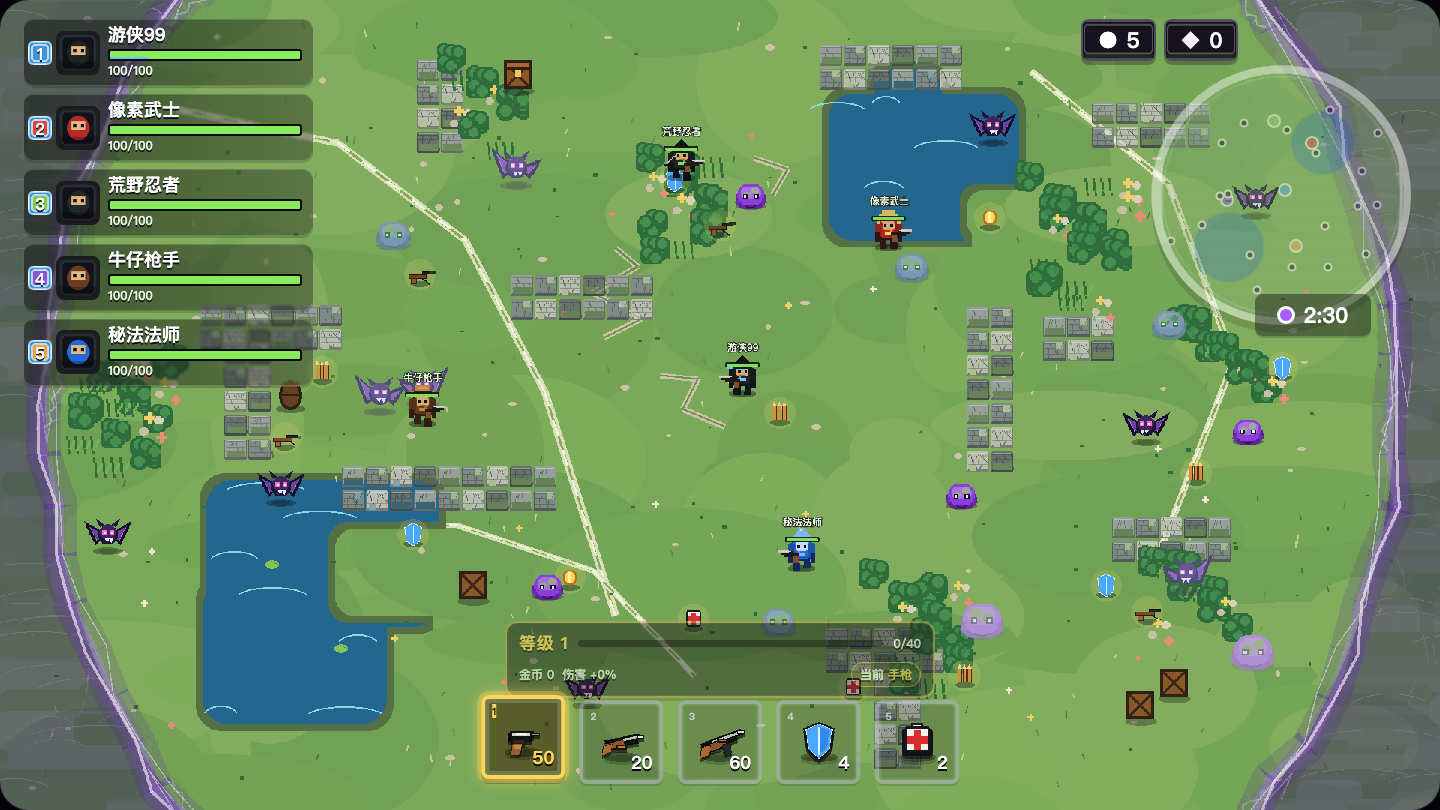
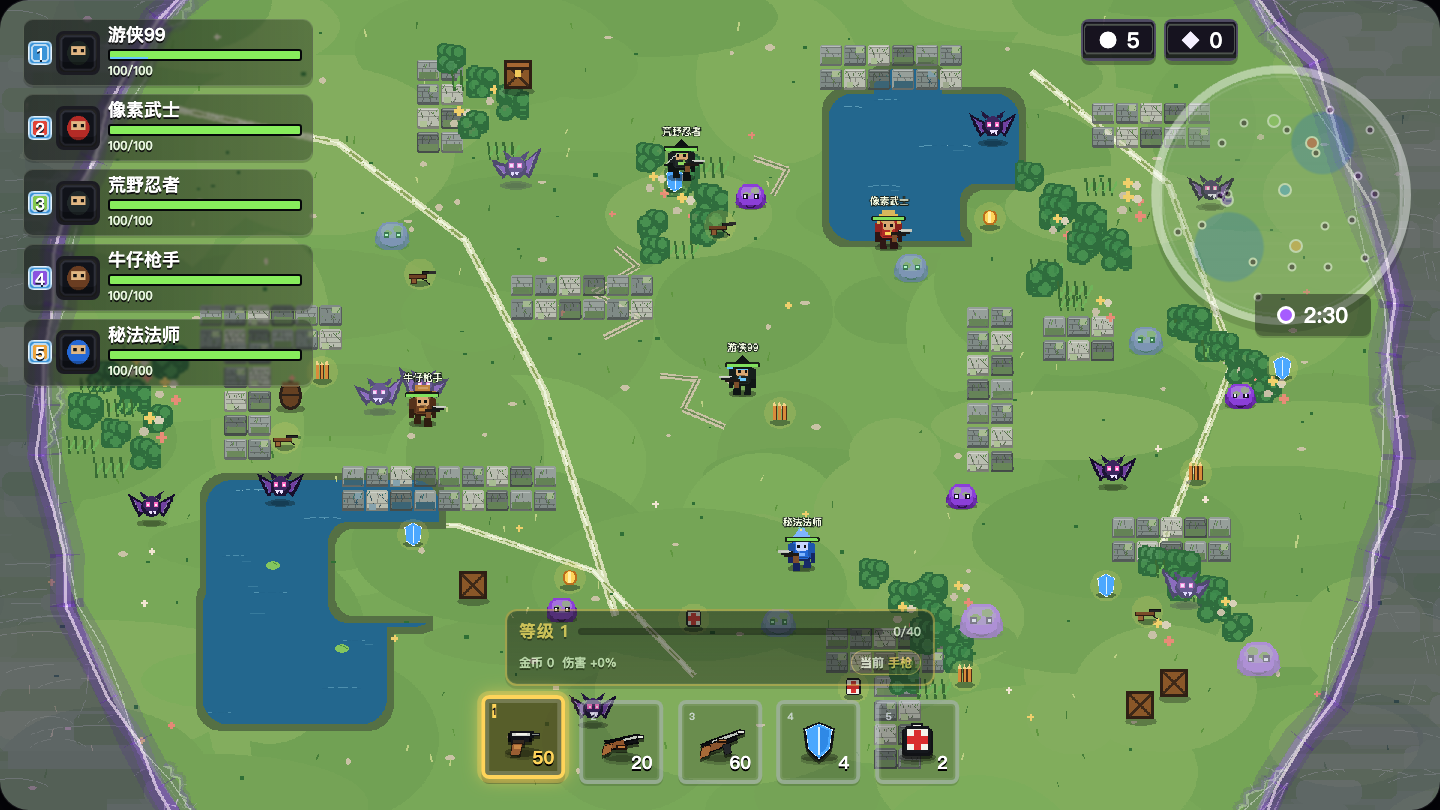
feat: enhance HUD layout and styles for improved visibility and usability

diff --git a/src/styles.css b/src/styles.css
@@ -53,11 +53,11 @@ body,
 
 .hud-left {
   position: absolute;
-  left: clamp(10px, 1.6vw, 28px);
-  top: clamp(10px, 2.4vh, 28px);
+  left: clamp(10px, 1.4vw, 22px);
+  top: clamp(10px, 2vh, 22px);
   display: grid;
-  gap: 8px;
-  width: min(290px, 25vw);
+  gap: 4px;
+  width: clamp(220px, 18vw, 240px);
   transition: opacity 140ms ease, filter 140ms ease;
 }
 
@@ -68,14 +68,14 @@ body,
 
 .fighter-row {
   display: grid;
-  grid-template-columns: 28px 52px 1fr;
+  grid-template-columns: 20px 36px 1fr;
   align-items: center;
-  min-height: 60px;
-  padding: 6px 10px 6px 4px;
+  min-height: 44px;
+  padding: 4px 7px 4px 3px;
   border: 1px solid rgba(244, 255, 223, 0.16);
-  border-radius: 10px;
+  border-radius: 8px;
   background: linear-gradient(90deg, rgba(20, 24, 22, 0.72), rgba(39, 54, 30, 0.48));
-  box-shadow: 0 3px 0 rgba(0, 0, 0, 0.18);
+  box-shadow: 0 2px 0 rgba(0, 0, 0, 0.18);
   backdrop-filter: blur(1px);
 }
 
@@ -86,15 +86,16 @@ body,
 
 .fighter-rank {
   display: grid;
-  width: 24px;
-  height: 24px;
+  width: 18px;
+  height: 18px;
   place-items: center;
   border: 2px solid rgba(255, 255, 255, 0.55);
-  border-radius: 5px;
+  border-radius: 4px;
   background: #3c94d8;
   background-position: center;
   background-size: 100% 100%;
   color: white;
+  font-size: 10px;
   font-weight: 900;
   text-shadow: 0 2px #132033;
 }
@@ -120,14 +121,14 @@ body,
 }
 
 .fighter-portrait {
-  width: 44px;
-  height: 44px;
-  border: 3px solid #1b1b22;
-  border-radius: 8px;
+  width: 34px;
+  height: 34px;
+  border: 2px solid #1b1b22;
+  border-radius: 7px;
   background: #222;
   background-position: center;
   background-size: cover;
-  box-shadow: inset 0 -10px rgba(0, 0, 0, 0.24);
+  box-shadow: inset 0 -8px rgba(0, 0, 0, 0.24);
 }
 
 .fighter-portrait.samurai {
@@ -152,13 +153,22 @@ body,
 }
 
 .fighter-body {
+  display: grid;
   min-width: 0;
+  gap: 3px;
+}
+
+.fighter-meta {
+  display: grid;
+  grid-template-columns: minmax(0, 1fr) auto;
+  align-items: center;
+  gap: 6px;
 }
 
 .fighter-name {
   overflow: hidden;
   color: white;
-  font-size: clamp(11px, 1.3vw, 18px);
+  font-size: clamp(10px, 0.95vw, 13px);
   font-weight: 900;
   line-height: 1.05;
   text-overflow: ellipsis;
@@ -168,8 +178,7 @@ body,
 
 .fighter-bars {
   position: relative;
-  height: 12px;
-  margin-top: 4px;
+  height: 9px;
   overflow: hidden;
   border: 2px solid #050709;
   border-radius: 3px;
@@ -195,19 +204,26 @@ body,
 }
 
 .fighter-value {
-  margin-top: 1px;
   color: #e8f6df;
-  font-size: 12px;
+  font-size: 10px;
   font-weight: 900;
   text-shadow: 0 2px #111;
+  white-space: nowrap;
+}
+
+.hud-right-stack {
+  position: absolute;
+  top: clamp(10px, 2vh, 22px);
+  right: clamp(10px, 1.6vw, 26px);
+  display: grid;
+  justify-items: end;
+  gap: 6px;
 }
 
 .hud-top-right {
-  position: absolute;
-  top: clamp(12px, 2.4vh, 28px);
-  right: clamp(86px, 14vw, 280px);
   display: flex;
-  gap: 8px;
+  justify-content: flex-end;
+  gap: 5px;
   transition: opacity 140ms ease;
 }
 
@@ -215,18 +231,18 @@ body,
 .storm-timer {
   display: flex;
   align-items: center;
-  min-height: 38px;
-  gap: 8px;
-  padding: 6px 16px;
+  min-height: 28px;
+  gap: 5px;
+  padding: 4px 10px;
   border: 0;
-  border-radius: 8px;
+  border-radius: 7px;
   background:
     url("/assets/ui/stat-pill.png") center / 100% 100% no-repeat,
     var(--hud-bg);
   color: white;
-  font-size: clamp(16px, 1.5vw, 24px);
+  font-size: clamp(12px, 1vw, 16px);
   font-weight: 900;
-  box-shadow: 0 4px 0 rgba(0, 0, 0, 0.28);
+  box-shadow: 0 3px 0 rgba(0, 0, 0, 0.28);
 }
 
 .hud-top-right.is-occluding .stat-pill,
@@ -244,10 +260,8 @@ body,
 }
 
 .mini-map {
-  position: absolute;
-  top: clamp(64px, 8vh, 100px);
-  right: clamp(14px, 2vw, 36px);
-  width: min(260px, 20vw);
+  position: relative;
+  width: clamp(170px, 13vw, 190px);
   aspect-ratio: 1;
   overflow: hidden;
   border: 0;
@@ -257,7 +271,7 @@ body,
     radial-gradient(circle at 66% 30%, rgba(47, 127, 176, 0.82) 0 12%, transparent 13%),
     repeating-linear-gradient(0deg, rgba(255, 255, 255, 0.035) 0 3px, transparent 3px 16px),
     rgba(117, 168, 90, 0.68);
-  box-shadow: 0 8px 0 rgba(0, 0, 0, 0.28);
+  box-shadow: 0 5px 0 rgba(0, 0, 0, 0.28);
   opacity: 0.86;
   transition: opacity 140ms ease, filter 140ms ease;
 }
@@ -278,15 +292,15 @@ body,
 
 .mini-storm {
   position: absolute;
-  border: 3px solid rgba(255, 255, 255, 0.85);
+  border: 2px solid rgba(255, 255, 255, 0.85);
   border-radius: 50%;
   background: rgba(255, 255, 255, 0.04);
 }
 
 .mini-dot {
   position: absolute;
-  width: 14px;
-  height: 14px;
+  width: 10px;
+  height: 10px;
   border: 2px solid white;
   border-radius: 50%;
   transform: translate(-50%, -50%);
@@ -313,23 +327,22 @@ body,
 }
 
 .mini-dot.pve {
-  width: 9px;
-  height: 9px;
+  width: 7px;
+  height: 7px;
   background: #3a173e;
 }
 
 .storm-timer {
-  position: absolute;
-  top: clamp(294px, 34vh, 385px);
-  right: clamp(38px, 4.8vw, 96px);
-  min-width: 116px;
+  justify-self: center;
+  min-width: 86px;
   justify-content: center;
+  margin-top: -2px;
 }
 
 .storm-timer span {
-  width: 18px;
-  height: 18px;
-  border: 3px solid white;
+  width: 13px;
+  height: 13px;
+  border: 2px solid white;
   border-radius: 50%;
   background: var(--danger);
 }

diff --git a/src/ui/hud/HudController.ts b/src/ui/hud/HudController.ts
@@ -49,19 +49,21 @@ export class HudController {
       <div class="hud-left ${hudOcclusion.left ? "is-occluding" : ""}">
         ${fighters.map((fighter) => this.renderFighterRow(fighter)).join("")}
       </div>
-      <div class="hud-top-right ${hudOcclusion.topRight ? "is-occluding" : ""}">
-        <div class="stat-pill"><span class="stat-icon">●</span>${state.scoreboard.aliveFighters}</div>
-        <div class="stat-pill"><span class="stat-icon skull">◆</span>${state.scoreboard.kills + state.scoreboard.pveKills}</div>
+      <div class="hud-right-stack">
+        <div class="hud-top-right ${hudOcclusion.topRight ? "is-occluding" : ""}">
+          <div class="stat-pill"><span class="stat-icon">●</span>${state.scoreboard.aliveFighters}</div>
+          <div class="stat-pill"><span class="stat-icon skull">◆</span>${state.scoreboard.kills + state.scoreboard.pveKills}</div>
+        </div>
+        <div class="mini-map ${hudOcclusion.miniMap ? "is-occluding" : ""}">
+          <div class="mini-storm" style="${this.stormMiniStyle(state)}"></div>
+          ${fighters.map((fighter) => this.renderMiniDot(fighter)).join("")}
+          ${entities
+            .filter((entity) => entity.kind === "pve" && entity.alive)
+            .map((entity) => this.renderMiniDot(entity))
+            .join("")}
+        </div>
+        <div class="storm-timer ${hudOcclusion.miniMap ? "is-occluding" : ""}"><span></span>${this.formatTime(stormSeconds)}</div>
       </div>
-      <div class="mini-map ${hudOcclusion.miniMap ? "is-occluding" : ""}">
-        <div class="mini-storm" style="${this.stormMiniStyle(state)}"></div>
-        ${fighters.map((fighter) => this.renderMiniDot(fighter)).join("")}
-        ${entities
-          .filter((entity) => entity.kind === "pve" && entity.alive)
-          .map((entity) => this.renderMiniDot(entity))
-          .join("")}
-      </div>
-      <div class="storm-timer ${hudOcclusion.miniMap ? "is-occluding" : ""}"><span></span>${this.formatTime(stormSeconds)}</div>
       <div class="progression-panel ${hudOcclusion.inventory ? "is-occluding" : ""}">
         <div class="progression-main"><strong>等级 ${state.progression.level}</strong><div class="xp-bar"><i style="width:${xpPercent}%"></i></div><span>${state.progression.xp}/${state.progression.xpToNextLevel}</span></div>
         <div class="progression-meta">
@@ -114,12 +116,14 @@ export class HudController {
         <div class="fighter-rank rank-${fighter.teamIndex ?? 0}">${fighter.teamIndex ?? 0}</div>
         <div class="fighter-portrait ${fighter.role ?? "rogue"}"></div>
         <div class="fighter-body">
-          <div class="fighter-name">${fighter.label ?? fighter.id}</div>
+          <div class="fighter-meta">
+            <div class="fighter-name">${fighter.label ?? fighter.id}</div>
+            <div class="fighter-value">${Math.ceil(fighter.health ?? 0)}/${Math.ceil(fighter.maxHealth ?? 100)}</div>
+          </div>
           <div class="fighter-bars">
             <i class="health" style="width:${health}%"></i>
             <i class="shield" style="width:${shield}%"></i>
           </div>
-          <div class="fighter-value">${Math.ceil(fighter.health ?? 0)}/${Math.ceil(fighter.maxHealth ?? 100)}</div>
         </div>
       </div>
     `;
@@ -328,9 +332,9 @@ export class HudController {
       });
 
     return {
-      left: hasEntityInRegion(0, 0, 27, 67),
-      topRight: hasEntityInRegion(76, 0, 100, 12),
-      miniMap: hasEntityInRegion(71, 5, 100, 45),
+      left: hasEntityInRegion(0, 0, 22, 34),
+      topRight: hasEntityInRegion(84, 0, 100, 8),
+      miniMap: hasEntityInRegion(82, 4, 100, 33),
       inventory: hasEntityInRegion(31, 78, 69, 100)
     };
   }

diff --git a/tools/generate_pixel_assets.py b/tools/generate_pixel_assets.py
@@ -754,20 +754,58 @@ def generate_arena_ground() -> None:
     apply_mask_color(water_mask, rgba("#23678e"))
     draw = ImageDraw.Draw(ground)
 
-    for _ in range(96):
-        x = rng.randint(260, 1380)
-        y = rng.randint(90, 965)
-        if water_mask.getpixel((x, y)) == 0:
+    ripple_layer = Image.new("RGBA", (width, height), (0, 0, 0, 0))
+    ripple_draw = ImageDraw.Draw(ripple_layer)
+
+    def point_in_water(x: int, y: int) -> bool:
+        return 0 <= x < width and 0 <= y < height and water_mask.getpixel((x, y)) > 0
+
+    def draw_broken_ripple(cx: int, cy: int, span: int, bend: int, opacity: int) -> None:
+        color = rgba("#9edceb", opacity)
+        shadow = rgba("#174f75", max(22, opacity // 3))
+        pieces = [(-0.48, -0.18), (-0.08, 0.16), (0.28, 0.48)]
+        for start_ratio, end_ratio in pieces:
+            x1 = cx + int(span * start_ratio)
+            x2 = cx + int(span * end_ratio)
+            mid = (x1 + x2) / 2
+            y1 = cy + int(bend * ((x1 - cx) / max(1, span)) ** 2)
+            y2 = cy + int(bend * ((x2 - cx) / max(1, span)) ** 2)
+            if point_in_water(x1, y1) and point_in_water(x2, y2):
+                ripple_draw.line((x1, y1 + 1, x2, y2 + 1), fill=shadow, width=1)
+                ripple_draw.line((x1, y1, x2, y2), fill=color, width=1)
+                if span > 46 and point_in_water(int(mid), cy + bend // 5):
+                    ripple_draw.point((int(mid), cy + bend // 5), fill=rgba("#c8f3fb", min(150, opacity + 30)))
+
+    ripple_clusters = [
+        (342, 652, 58, 11, 122),
+        (430, 690, 50, 8, 92),
+        (312, 740, 34, 6, 82),
+        (360, 789, 46, 7, 96),
+        (472, 853, 30, 5, 86),
+        (292, 949, 32, 7, 78),
+        (455, 916, 56, 9, 88),
+        (1128, 142, 44, 8, 112),
+        (1182, 132, 36, 7, 96),
+        (1260, 193, 72, 9, 104),
+        (1178, 247, 44, 7, 88),
+    ]
+    for cx, cy, span, bend, opacity in ripple_clusters:
+        draw_broken_ripple(cx, cy, span, bend, opacity)
+
+    for _ in range(34):
+        x = rng.randint(270, 1370)
+        y = rng.randint(96, 960)
+        if not point_in_water(x, y):
             continue
-        length = rng.randint(18, 62)
-        draw.arc((x - length, y - 7, x + length, y + 20), 200, 340, fill=rgba("#8bd7e8", rng.randint(70, 135)), width=2)
-    for _ in range(14):
-        x = rng.randint(300, 1320)
-        y = rng.randint(145, 915)
-        if water_mask.getpixel((x, y)) == 0:
-            continue
-        draw.ellipse((x - 8, y - 5, x + 9, y + 6), fill=rgba("#84c55e", 185))
-        draw.line((x - 1, y - 4, x + 8, y), fill=rgba("#4d8c3e", 160), width=1)
+        length = rng.randint(8, 22)
+        if point_in_water(x + length, y):
+            ripple_draw.line((x, y, x + length, y), fill=rgba("#78b9cb", rng.randint(38, 72)), width=1)
+
+    ground.alpha_composite(ripple_layer)
+
+    for pad_x, pad_y in [(363, 753), (455, 864)]:
+        draw.ellipse((pad_x - 8, pad_y - 5, pad_x + 9, pad_y + 6), fill=rgba("#84c55e", 185))
+        draw.line((pad_x - 1, pad_y - 4, pad_x + 8, pad_y), fill=rgba("#4d8c3e", 160), width=1)
 
     for _ in range(260):
         x = rng.randint(20, width - 30)
